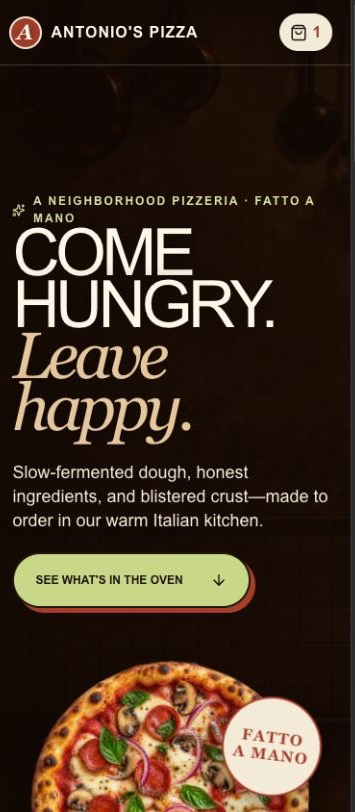
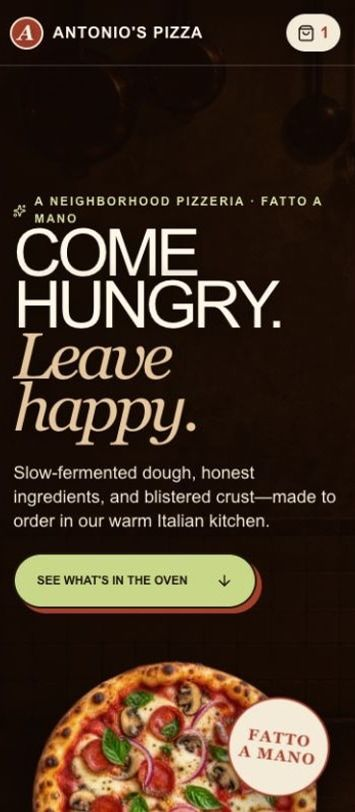
Iphone edit 5

diff --git a/app/components/mobile-projects.css b/app/components/mobile-projects.css
@@ -143,11 +143,12 @@
 
 .exclusive-phone-screen {
   position: absolute;
-  inset: var(--phone-bezel);
+  inset: var(--phone-bezel) 1px;
   box-sizing: border-box;
   padding: 0;
   overflow: hidden;
   border: 1px solid #242426;
+  border-inline: 0;
   border-radius: clamp(23px, 2.6vw, 35px);
   background: #080808;
 }
@@ -206,6 +207,7 @@
 .exclusive-phone--pizza .exclusive-phone-screen img,
 .exclusive-phone--disney .exclusive-phone-screen img,
 .exclusive-phone--social .exclusive-phone-screen img {
+  object-fit: cover;
   object-position: 50% 0;
 }
 
@@ -219,6 +221,8 @@
 
 .exclusive-phone--ruff .exclusive-phone-screen img {
   object-position: 50% 0;
+  transform: translateX(2px) scaleX(1.025);
+  transform-origin: center;
 }
 
 .exclusive-phone--pizza .exclusive-phone-screen { background: #180b06; }
